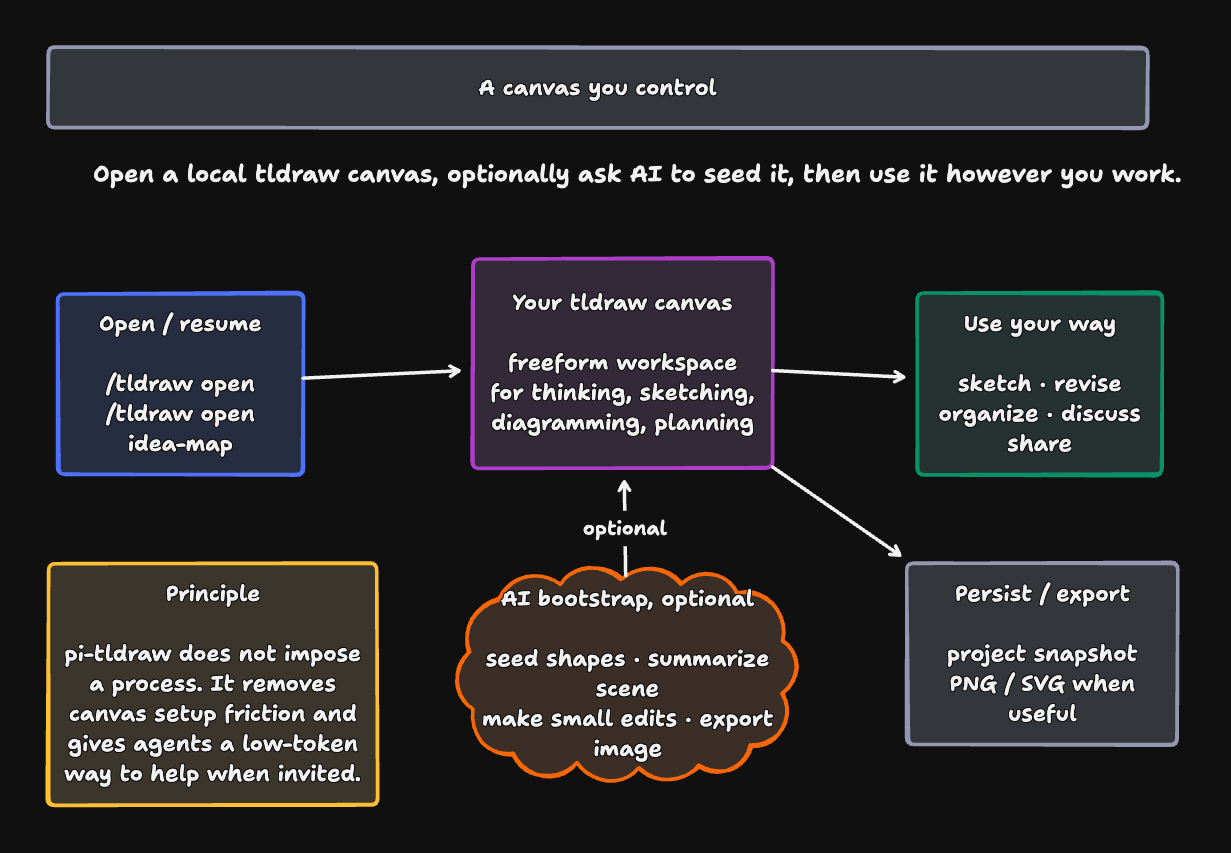
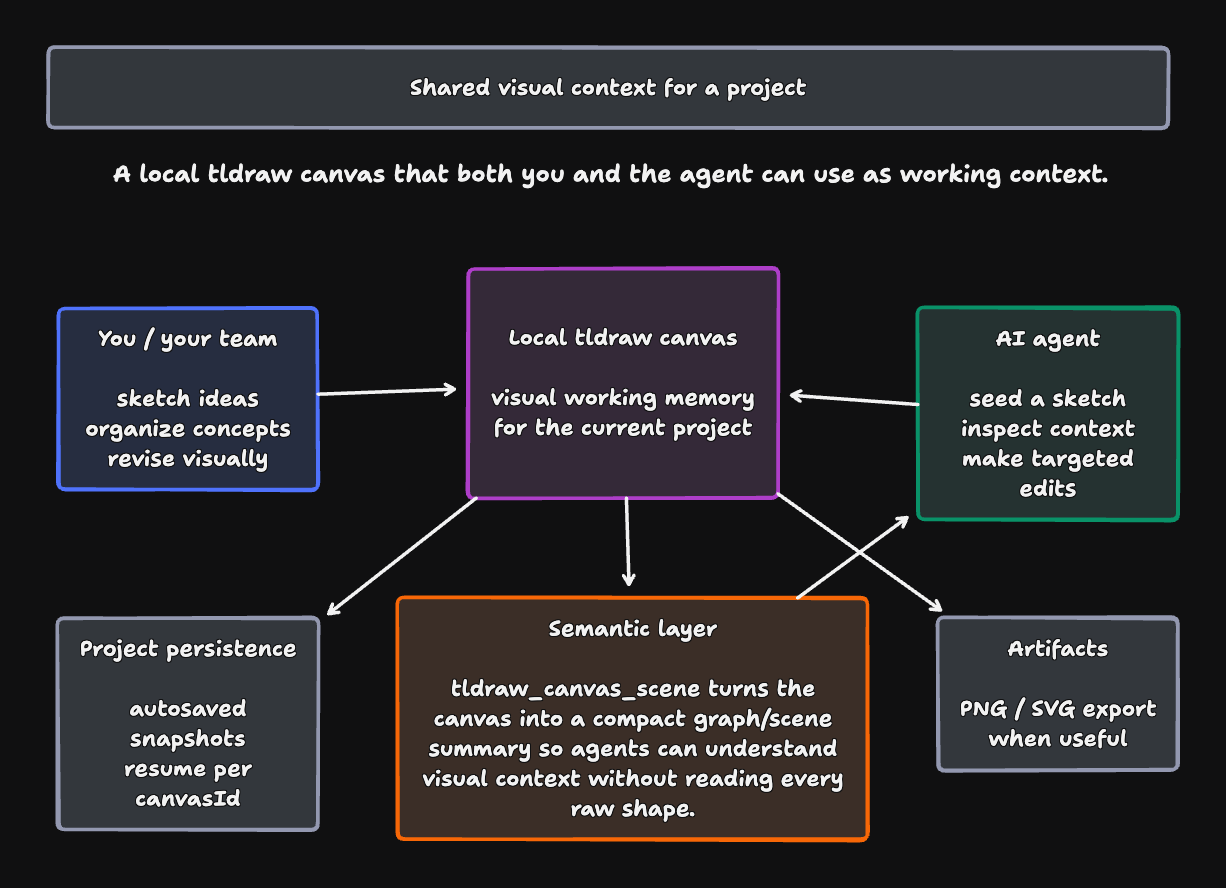
docs(readme): refine canvas context and cli example

diff --git a/README.md b/README.md
@@ -40,9 +40,9 @@ pi-tldraw builds on the tldraw MCP app and adds the Pi extension shape around it
 
 ## Canvas workspace
 
-![Minimal canvas bootstrap](docs/assets/minimal-canvas-bootstrap.png)
+![Shared visual context for a project](docs/assets/minimal-canvas-bootstrap.png)
 
-pi-tldraw does not prescribe a diagramming process. It gives you a local tldraw canvas for the current project and lets AI help only when useful: seed a first sketch, summarize what is on the canvas, make a small edit, or export an artifact.
+pi-tldraw gives each project a local tldraw canvas that can act as shared visual context. You can sketch directly in the browser; the agent can use the same canvas to seed ideas, inspect what is there, make targeted edits, or export an artifact.
 
 Minimal use:
 
@@ -50,7 +50,23 @@ Minimal use:
 /tldraw open [canvasId]
 ```
 
-From there, the canvas is yours: sketch, organize, revise, discuss, or ignore the agent entirely. Project snapshots are persisted automatically, and PNG/SVG export is available when you want to share the result.
+The important bridge is the semantic layer: `tldraw_canvas_scene` turns the drawing into a compact graph/scene summary, so the agent can reason about visual context without loading every raw shape. Project snapshots are persisted automatically, and PNG/SVG export is available when you want to share the result.
+
+## One-prompt CLI drawing
+
+You can also ask Pi to draw from a single CLI prompt. JSON mode streams tool calls and results to stdout, so another process or orchestration agent can watch the drawing loop as telemetry.
+
+```bash
+pi -e . --approve --mode json -p \
+  --session-id crazy-simple-drawer-test \
+  --no-builtin-tools \
+  --tools tldraw_canvas_open,tldraw_diagram_tips,tldraw_canvas_exec,tldraw_canvas_scene,tldraw_canvas_export \
+  'Draw a crazy but simple diagram: a rocket-powered octopus juggling three planets while a tiny robot takes notes. Iterate once, export PNG, and report the path.'
+```
+
+Example output from that exact workflow:
+
+![Rocket octopus juggling planets while a tiny robot takes notes](docs/assets/crazy-simple-test.png)
 
 ## Normal UX
 
